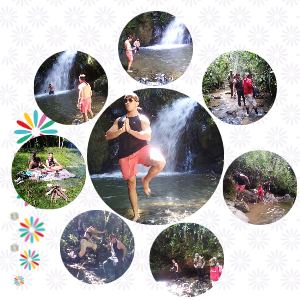
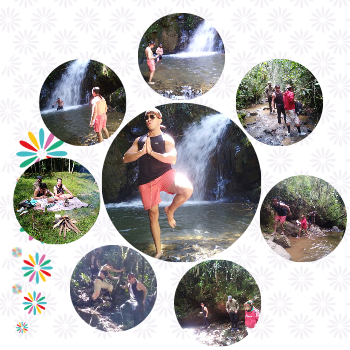
se realiza grid en page rutas

diff --git a/Grid y Flexbox/Paginas/Rutas.html b/Grid y Flexbox/Paginas/Rutas.html
@@ -9,7 +9,7 @@
 </head>
 <body class="contenedor">
     <header class="encabezado">
-        <div class="logo"><img src="../assets/Imagenes/Logo Pandora.png" alt=""></div>
+        <div class="logo"><img src="../assets/Imagenes/Logo Pandora.webp" alt=""></div>
     </header>
     <nav class="navegador">
         <ul>
@@ -33,12 +33,11 @@
                 <h2 class="rutaecologica__subtitulo">Senderismo & Naturaleza</h2>
                 <div class="rutaecologica__img"><img src="../assets/Imagenes/imgRutaEcologica.png" alt=""></div>
             </div>
-            <div class="rutasdesiembra">
-                <div class="rutasdesiembra__logo"><img src="../assets/Imagenes/Logo Rutas de Siembra.png" alt=""></div>
-                </div>
-                <h2 class="rutasdesiembra__subtitulo">Una experiencia más allá de las flores</h2>
-                <h3 class="rutasdesiembra__texto">“Hay una ruta que nos espera, caminos que cuentan historias de siembras, de la magia que habita en la tierra, de cultivos que fueron  abonados con paciencia, constancia y optimismo infinito”</h3>
-                <div class="rutasdesiembra__img"><img src="../assets/Imagenes/imgRutasde Siembra.png" alt=""></div>
+            <div class="rutasiembra">
+                <div class="rutasiembra__logo"><img src="../assets/Imagenes/Logo Rutas de Siembra.png" alt=""></div>
+                <h1 class="rutasiembra__subtitulo">Una experiencia más allá de las flores</h1>
+                <h3 class="rutasiembra__texto">“Hay una ruta que nos espera, caminos que cuentan historias de siembras, de la magia que habita en la tierra, de cultivos que fueron  abonados con paciencia, constancia y optimismo infinito”</h3>
+                <div class="rutasiembra__img"><img src="../assets/Imagenes/imgRutasSiembra.png" alt=""></div>
             </div>
         </section>
         

diff --git a/Grid y Flexbox/assets/css/style.css b/Grid y Flexbox/assets/css/style.css
@@ -112,22 +112,20 @@
 .rutaecologica__img {
     margin: 50px;
 }
-.rutasdesiembra {
-    display: flex;
-    align-content: column;
+.rutasiembra__logo{
+    margin: 30px;
 }
-.rutasdesiembra__logo {
-    margin: 5px;
+.rutasiembra__subtitulo{
+    font-size: 25px;
+    color: #7ed957;
 }
-.rutasdesiembra__subtitulo {
-    font-size: 30px;
-    text-align: center;
-    color: #7ed957
-}
-.rutasdesiembra__texto {
+.rutasiembra__texto{
     text-align: justify;
     font-style: normal;
-    margin: 20px;
+    margin: 10px;
+}
+.rutasiembra__img{
+    margin: 50px;
 }
 
 /*PageHospedajes*/
